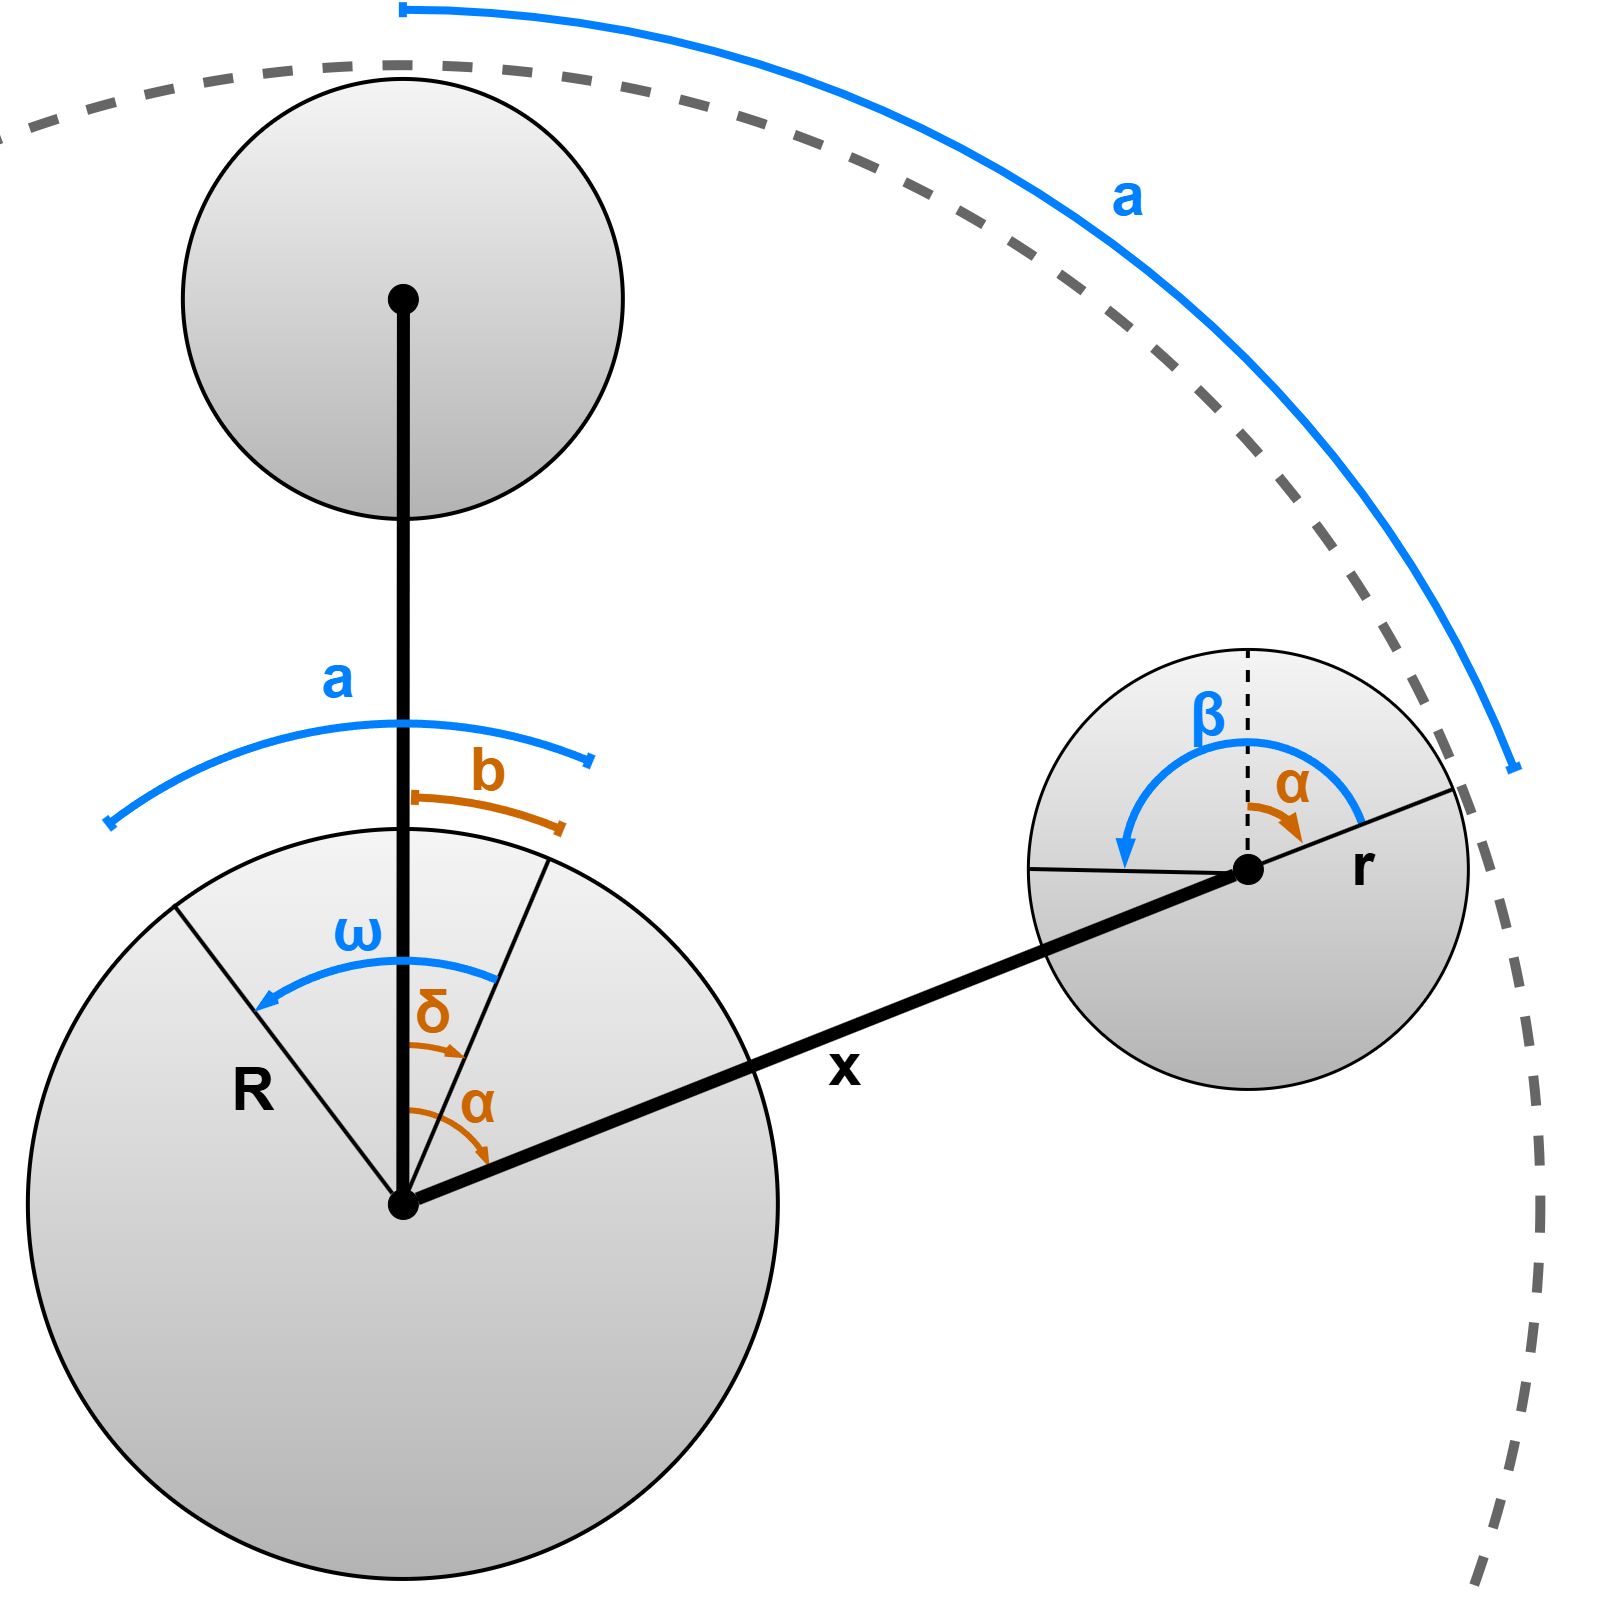
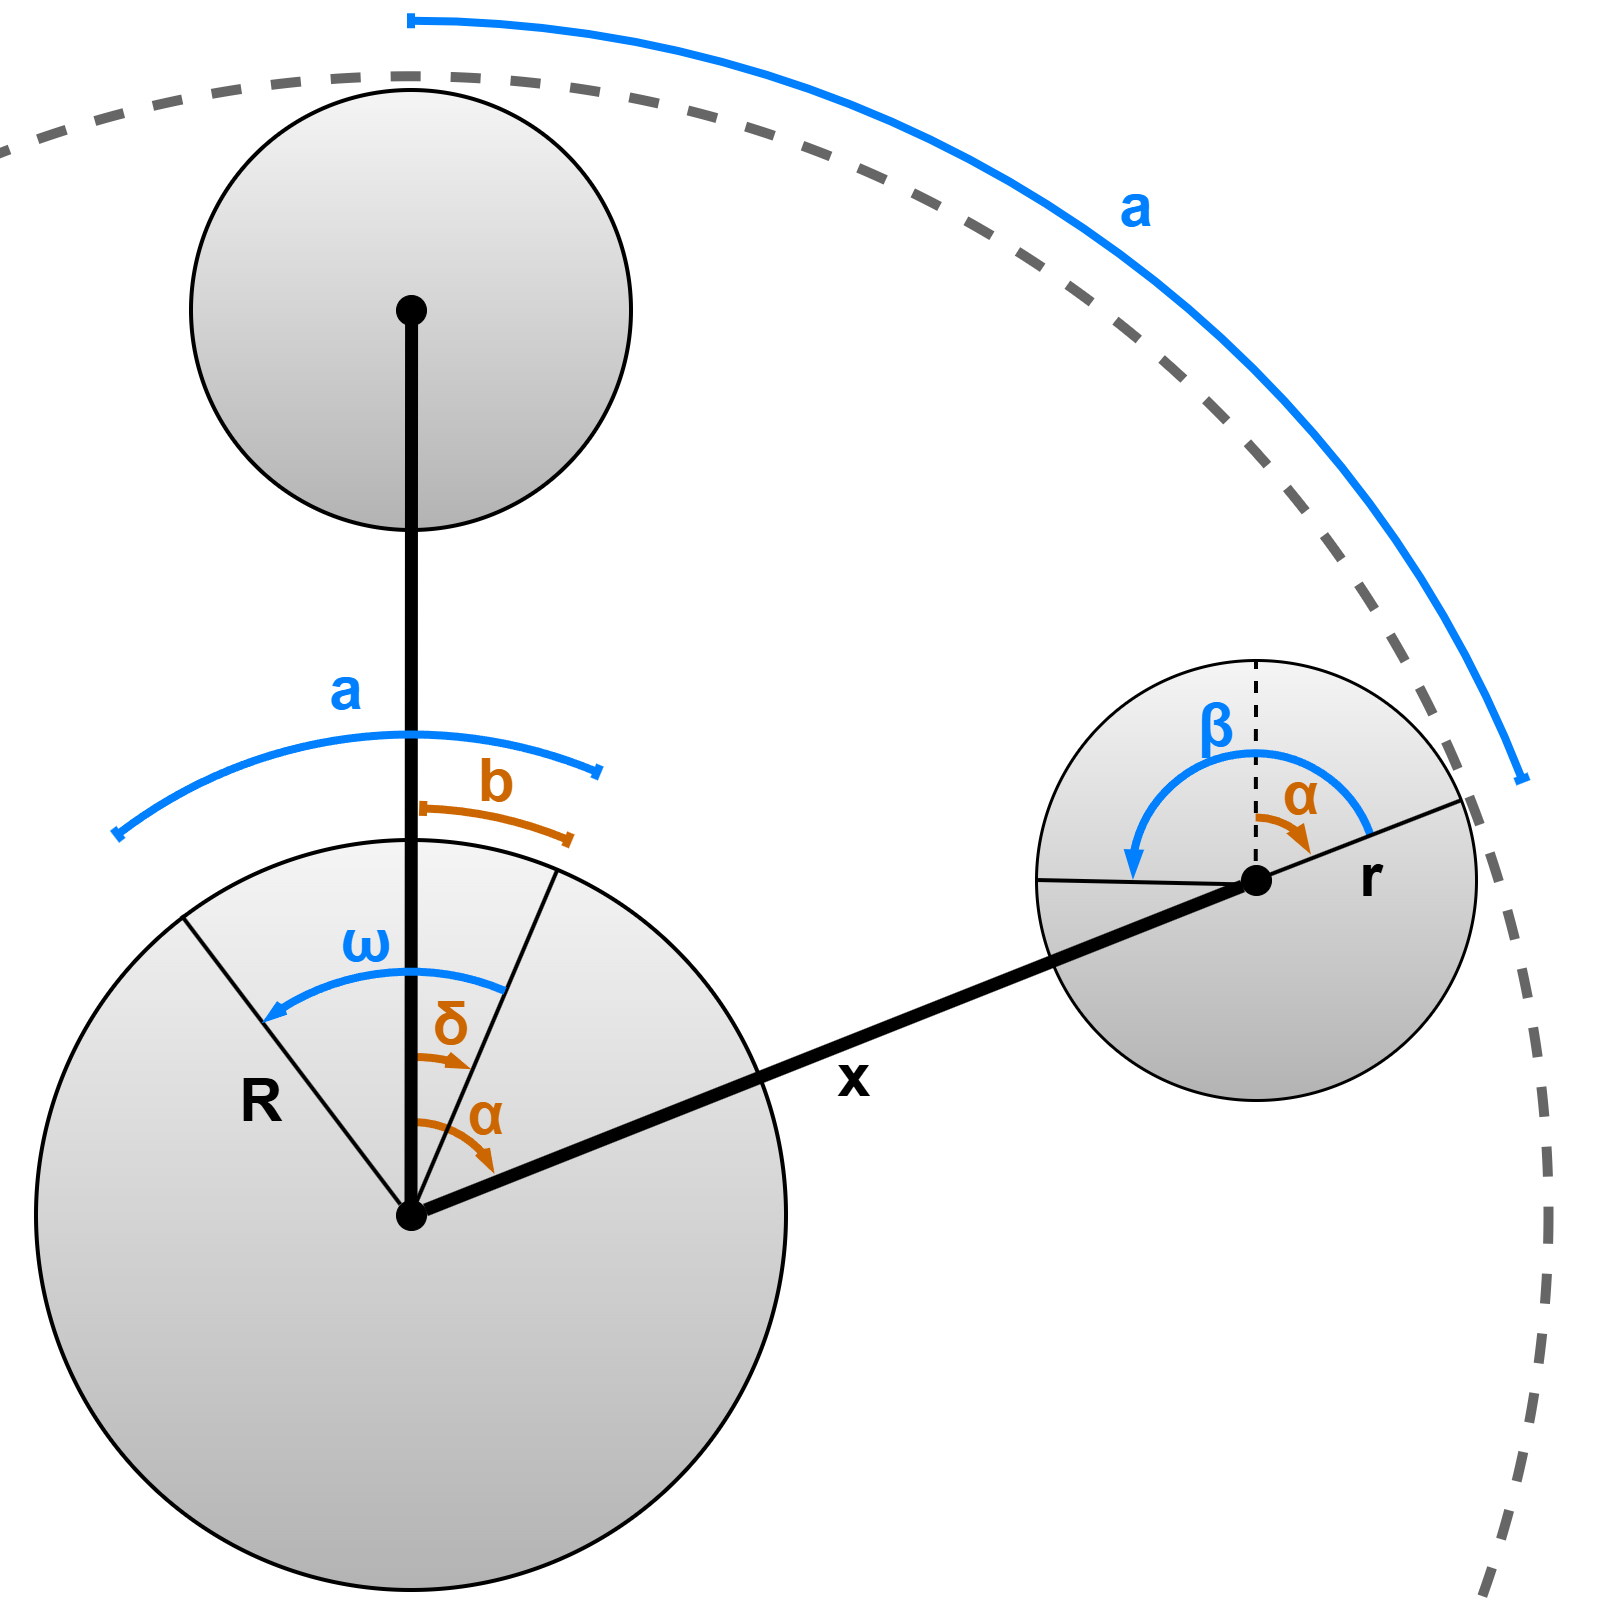
hyperlink changes

diff --git a/src/pages/SprocketChainProof.tsx b/src/pages/SprocketChainProof.tsx
@@ -84,7 +84,7 @@ const SprocketChainProof = () => {
               Steer-by-wire Bicycle
             </Link>
 
-            <h1 className="mt-8 font-display text-3xl font-semibold tracking-tight text-foreground lg:text-4xl">
+            <h1 className="mt-8 font-display text-2xl font-medium tracking-tight text-foreground lg:text-3xl">
               Sprocket and Chain Approach to Gain
             </h1>
 
